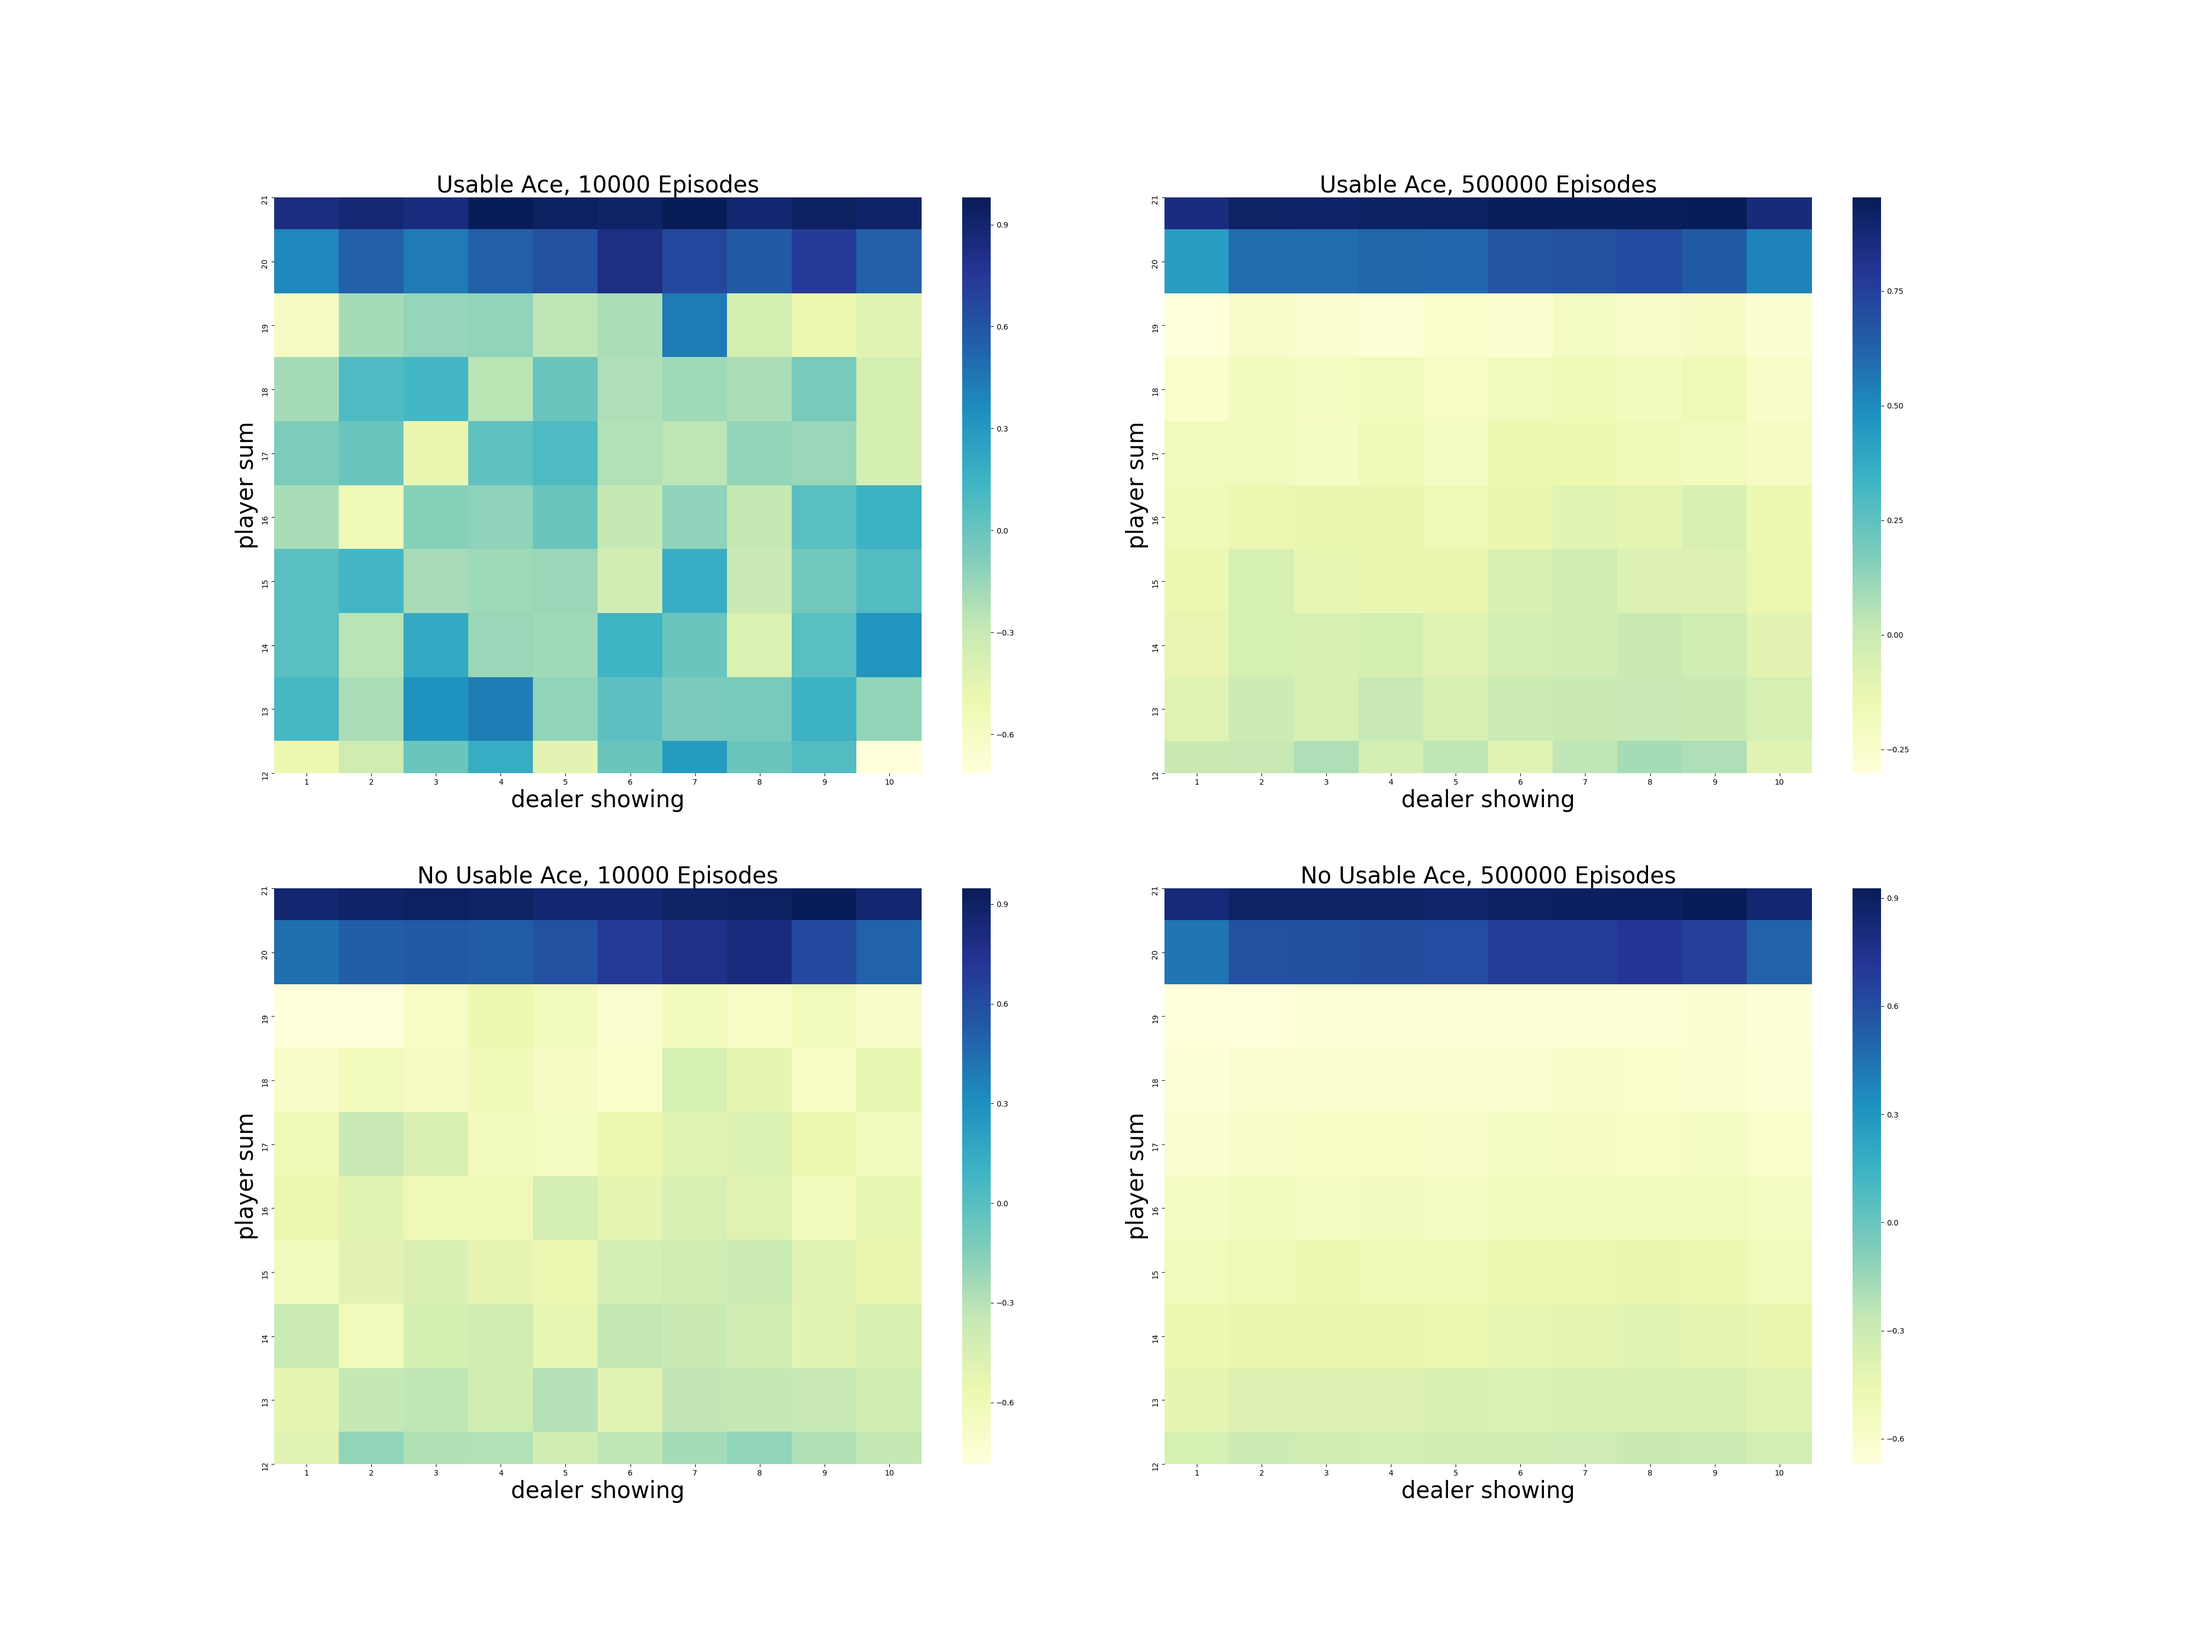
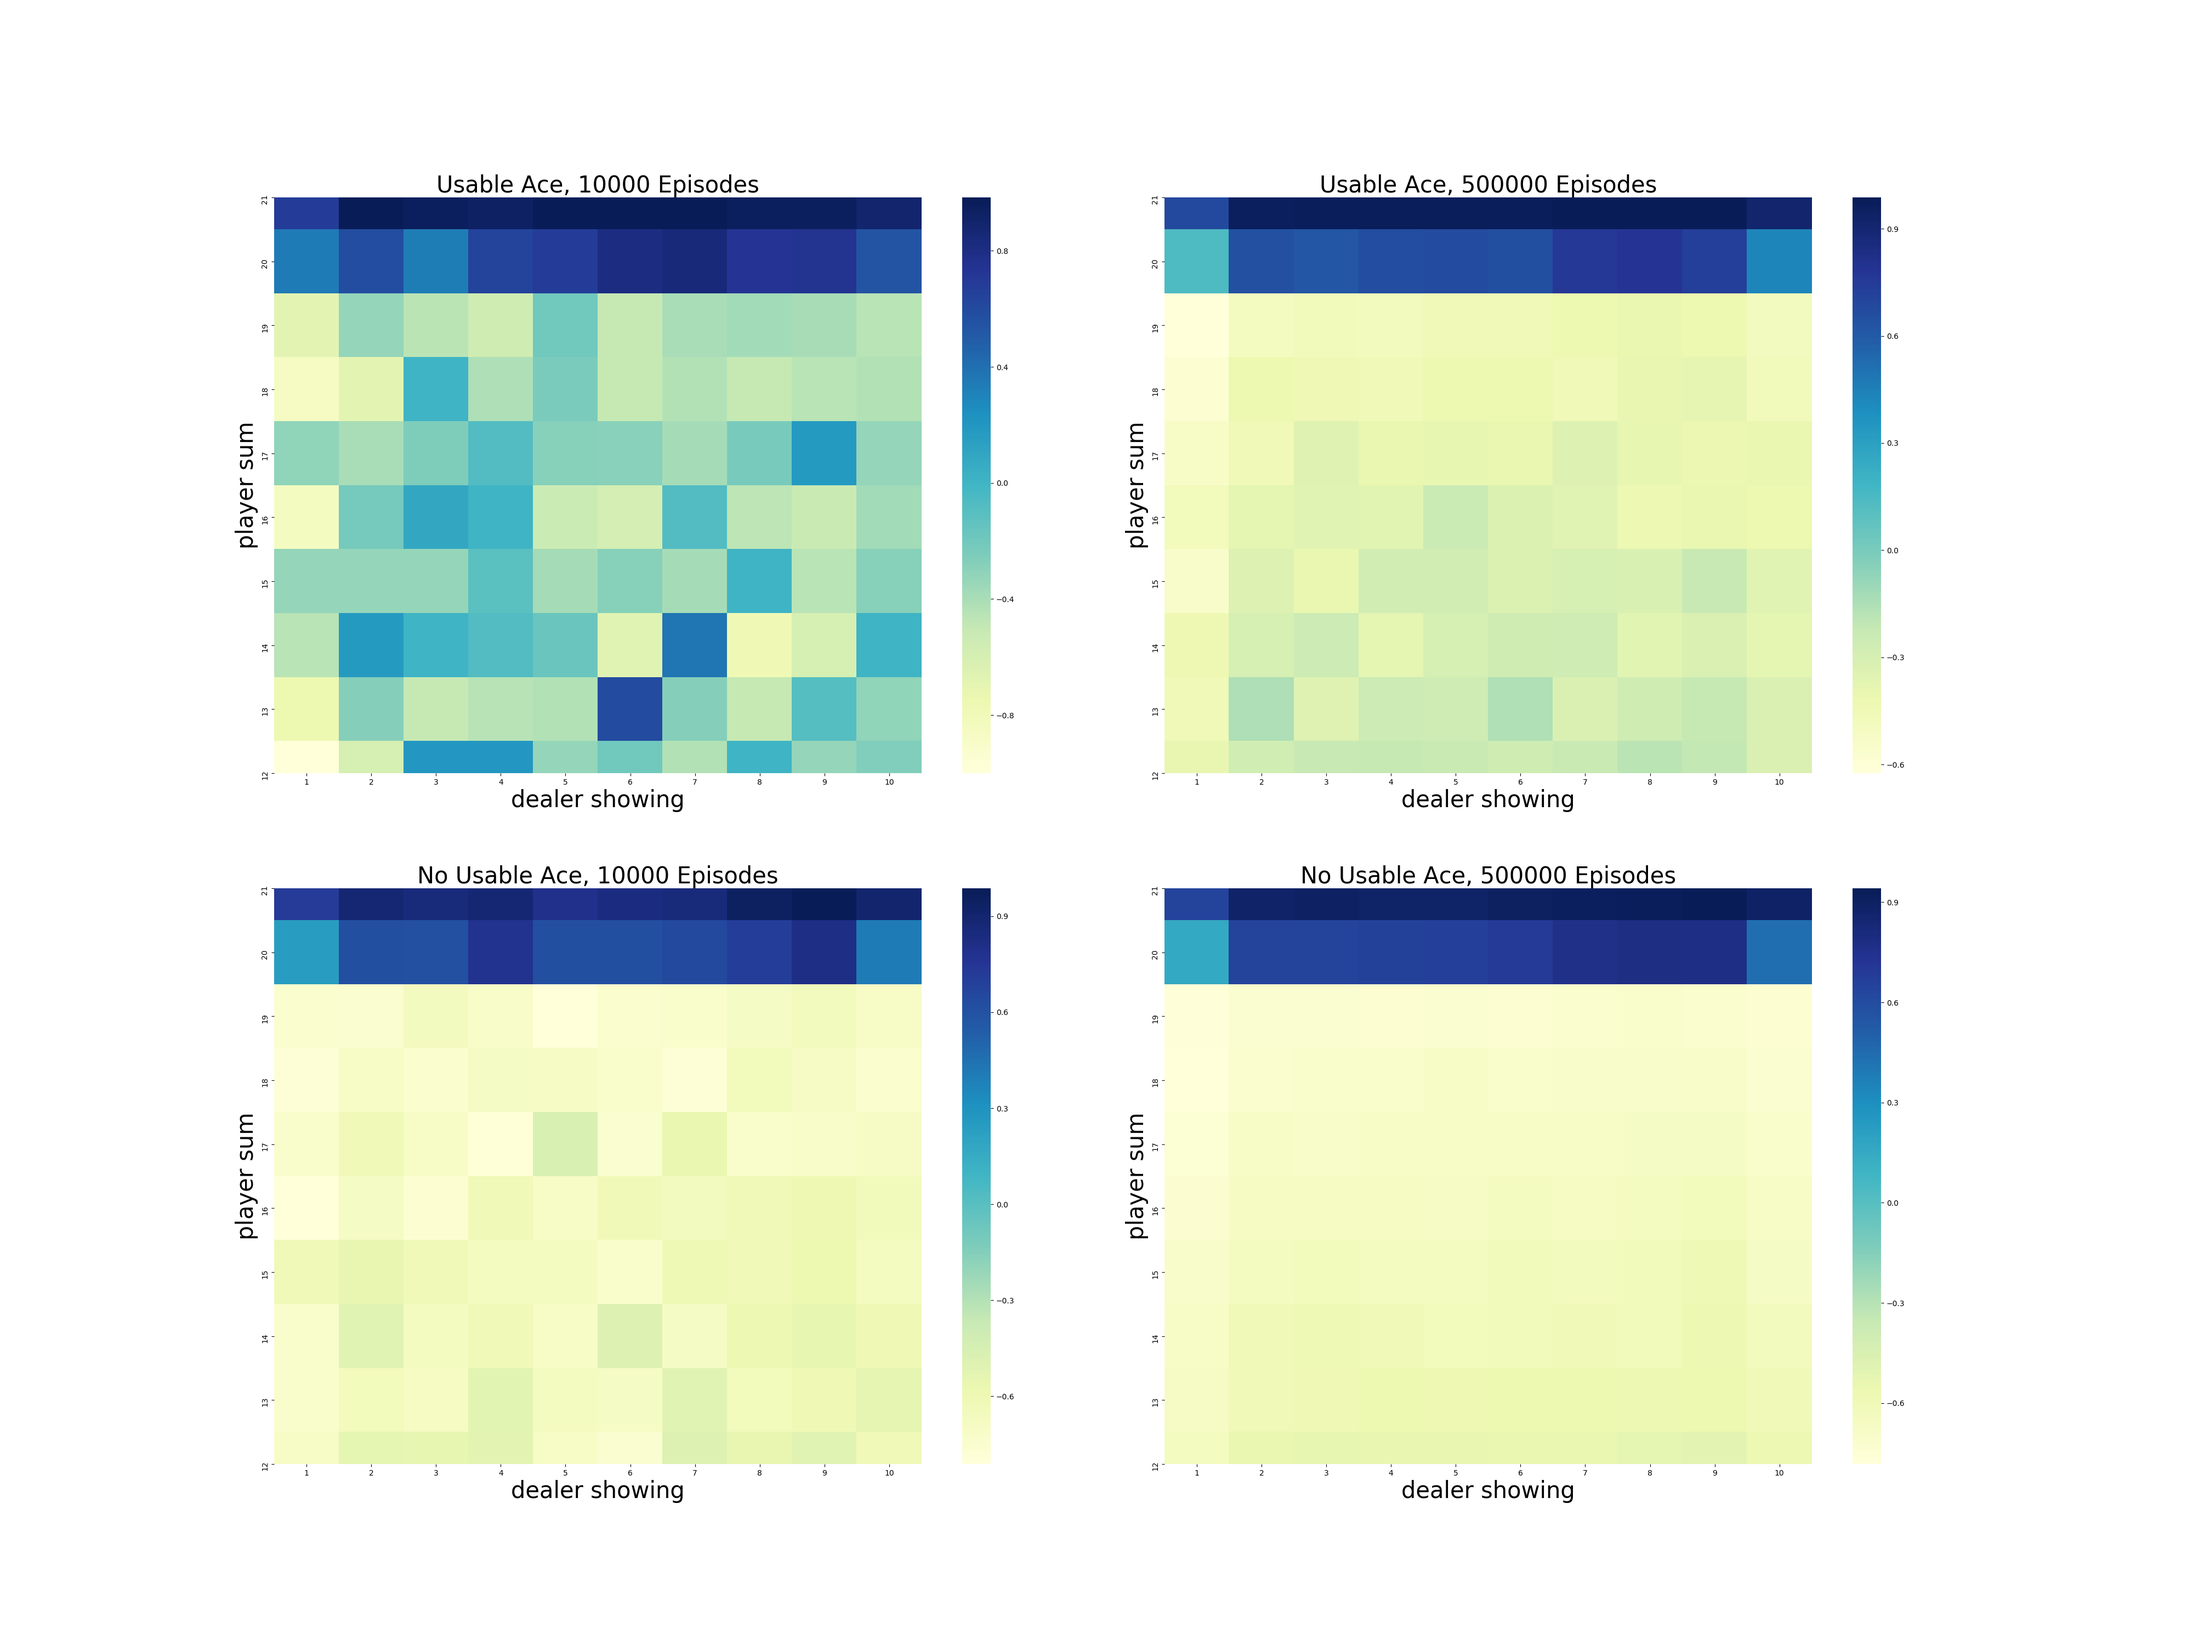
5_1/5_2: 10,J,Q,K ->10

diff --git a/chapter05/my_blackjack_5_2.py b/chapter05/my_blackjack_5_2.py
@@ -20,8 +20,8 @@ DISCOUNT = 1.0
 # useable ace or not in player (keep changing every time)
 
 def card_dealt():
-    # ACE - 10
-    return randint(1, 10)
+    # ACE - 10, J, Q, K
+    return min(10, randint(1, 13))
 
 def cmp_r(p_sum, d_sum):
     # compare palyer sum and dealer sum
@@ -183,14 +183,17 @@ def figure_5_2():
 
     # stick 0; hit: 1
     # initially, always stick
-    # player_policy = np.zeros((10, 10, 2))
-    player_policy = np.random.randint(2, size=(10, 10, 2))
+    player_policy = np.zeros((10, 10, 2))
+    # # # initial policy with original policy: >= 20 sticks (0)
+    player_policy[:8][:][:] = 1
+    # pdb.set_trace()
+    # player_policy = np.random.randint(2, size=(10, 10, 2))
     # dealer stick_thres = 17 (simple policy with a threshold)
     dealer_simple_policy = ([None] + [1] * 16 + [0] * 14) # None is occupier, bust to 31
 
     # State-Action Values
-    # Q_Vs = np.zeros((10, 10, 2, 2), dtype=np.float)
-    Q_Vs = np.random.rand(10, 10, 2, 2)
+    Q_Vs = np.zeros((10, 10, 2, 2), dtype=np.float)
+    # Q_Vs = np.random.rand(10, 10, 2, 2)
     C = np.zeros((10, 10, 2, 2), dtype=np.float)
     
     eposide_c = 0
@@ -239,8 +242,10 @@ def figure_5_2():
                     # policy estimation
                     Q_Vs[p_sum-12][dealer_show-1][ace_heat][int(action)] = (avg_v * count + Return)/(count+1.0)
                     C[p_sum-12][dealer_show-1][ace_heat][int(action)] = count+1.0
-                    # policy improvement
-                    player_policy[p_sum-12][dealer_show-1][ace_heat] = np.argmax(Q_Vs[p_sum-12][dealer_show-1][ace_heat])
+                    # # policy improvement
+                    # player_policy[p_sum-12][dealer_show-1][ace_heat] = np.argmax(Q_Vs[p_sum-12][dealer_show-1][ace_heat])
+        # policy improvement
+        player_policy = np.argmax(Q_Vs, axis=-1)
         max_value_change = abs(old_Q - Q_Vs).max()
         eposide_c += 1        
         print('{} max value change {:.6f}'.format(eposide_c, max_value_change))
@@ -248,7 +253,7 @@ def figure_5_2():
         # # if max_value_change < 1e-2:
         #     break
         # previous convergence conditions failed (not stable)
-        if eposide_c >= 2000000 and np.array_equal(old_p, player_policy):
+        if eposide_c >= 1000000 and np.array_equal(old_p, player_policy):
             # Bellman Optimality Equation V_{*}(s) = max_{a} Q_{*}(s, a)
             state_values = np.amax(Q_Vs, axis=-1)
             opt_policy = np.argmax(Q_Vs, axis=-1)

diff --git a/chapter05/blackjack.py b/chapter05/blackjack.py
@@ -330,7 +330,7 @@ def figure_5_2():
         fig.set_xlabel('dealer showing', fontsize=30)
         fig.set_title(title, fontsize=30)
 
-    plt.savefig('../images/figure_5_2.png')
+    plt.savefig('./images/figure_5_2.png')
     plt.close()
 
 def figure_5_3():
@@ -359,7 +359,7 @@ def figure_5_3():
 
 
 if __name__ == '__main__':
-    figure_5_1()
+    # figure_5_1()
     figure_5_2()
-    figure_5_3()
+    # figure_5_3()
 

diff --git a/chapter05/my_blackjack_5_1.py b/chapter05/my_blackjack_5_1.py
@@ -16,8 +16,8 @@ DISCOUNT = 1.0
 # useable ace or not in player (keep changing every time)
 
 def card_dealt():
-    # ACE - 10
-    return randint(1, 10)
+    # ACE - 10, J, Q, K
+    return min(10, randint(1, 13))
 
 def cmp_r(p_sum, d_sum):
     # compare palyer sum and dealer sum
